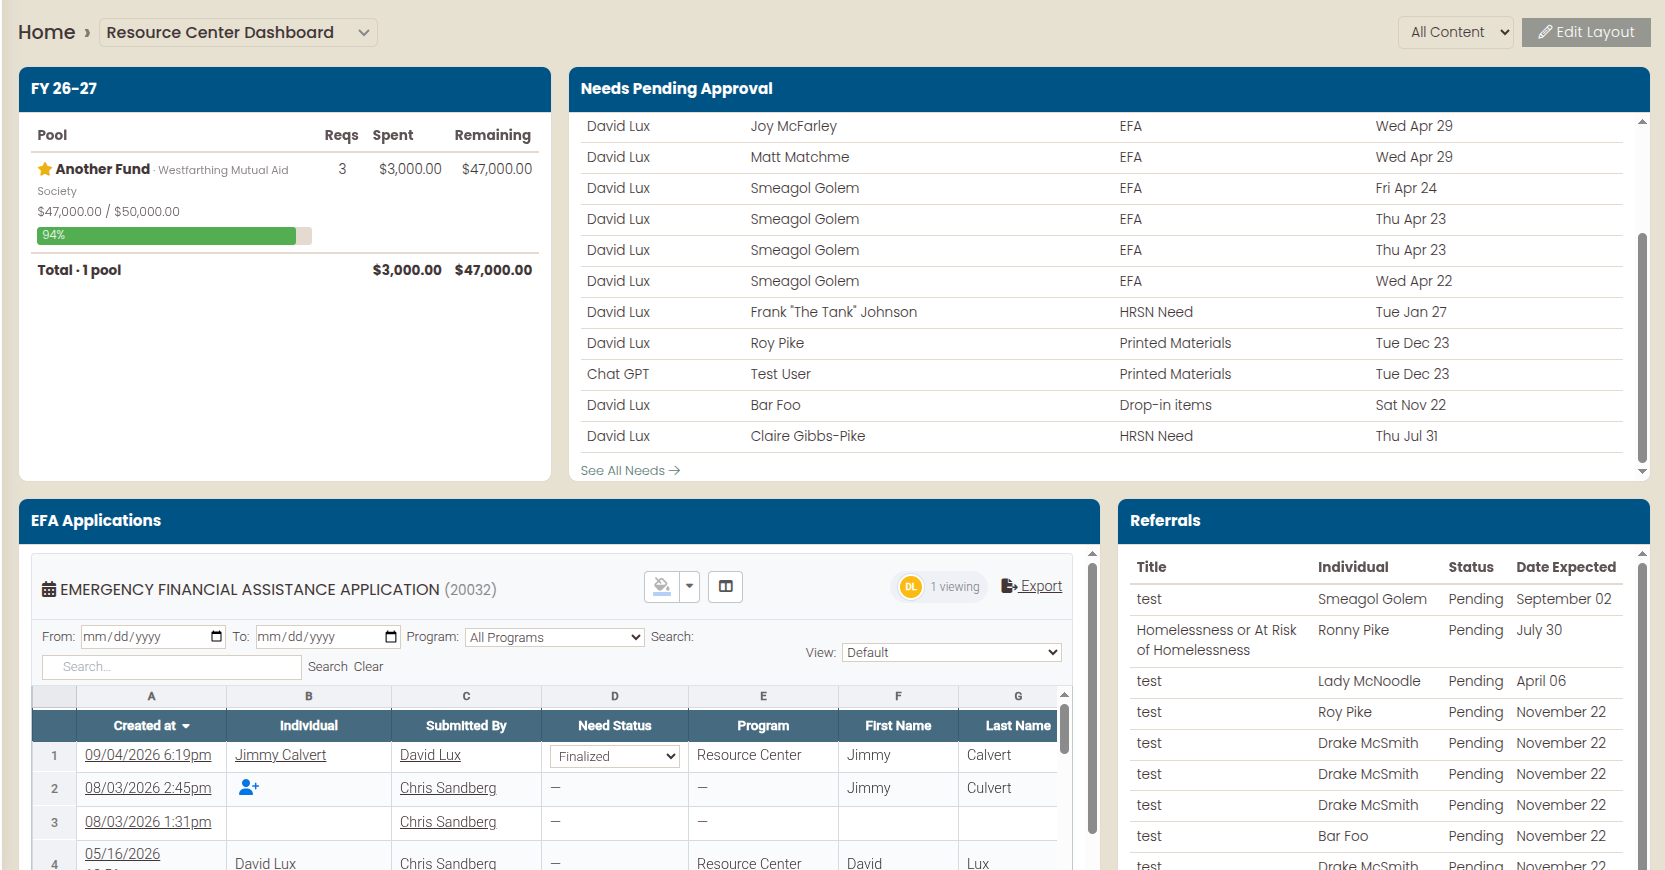
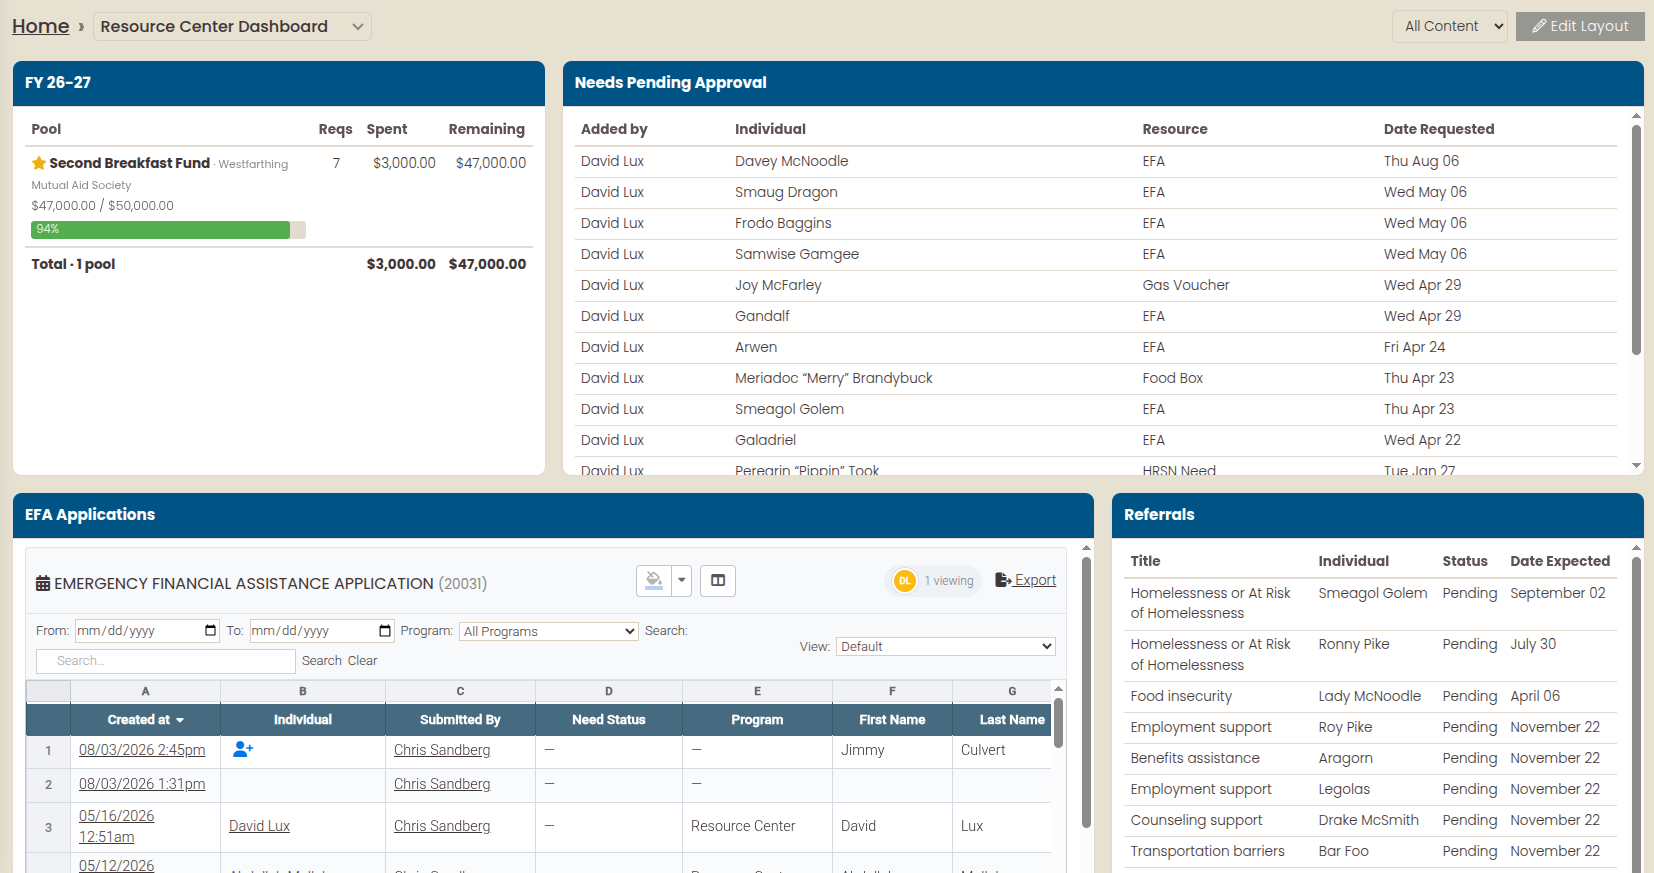
Need Navigator: screenshot lightbox, and the dashboard re-capture
Every framed screenshot is now wrapped in an Enlarge link that opens a
shared native <dialog> (site.js); the link points at the PNG so it still
works without JavaScript. Backdrop click, the close button and Escape
all dismiss it; focus returns to the link; reduced motion drops the
fade. The hero card is excluded.

Home dashboard swapped for Dave's re-capture with varied rows (Second
Breakfast Fund, a fuller approval queue, six referral types).

Changed region(s): [[0.0, 0.0, 1.0, 1.0], [0.5859, 0.9931, 0.6167, 1.0]]

diff --git a/public/sites/neednavigator/css/site.css b/public/sites/neednavigator/css/site.css
@@ -518,6 +518,37 @@ img, svg { max-width: 100%; height: auto; }
   letter-spacing: 0.02em;
 }
 .uiframe-body { padding: clamp(0.9rem, 2vw, 1.4rem); overflow-x: auto; }
+/* ---- Screenshot enlarge link + lightbox ------------------------------------ */
+.shot-zoom { display: block; position: relative; text-decoration: none; }
+.shot-zoom::after {
+  content: 'Enlarge';
+  position: absolute; right: 0.65rem; bottom: 0.65rem;
+  font-family: var(--font-body); font-size: 0.68rem; font-weight: 700; letter-spacing: 0.08em; text-transform: uppercase;
+  padding: 0.38rem 0.6rem; border-radius: 999px;
+  background: rgba(20, 56, 42, 0.86); color: #fff;
+  pointer-events: none; opacity: 0.85; transition: opacity 140ms ease;
+}
+.shot-zoom:hover::after, .shot-zoom:focus-visible::after { opacity: 1; }
+.shot-zoom:focus-visible { outline: var(--focus-ring); outline-offset: -2px; }
+@media (prefers-reduced-motion: reduce) { .shot-zoom::after { transition: none; } }
+
+.lightbox { border: 0; padding: 0; background: transparent; max-width: none; max-height: none; width: auto; overflow: visible; }
+.lightbox::backdrop { background: rgba(14, 40, 30, 0.86); }
+.lightbox img { display: block; max-width: min(96vw, 1800px); max-height: 84vh; width: auto; height: auto; border-radius: 8px; background: #fff; box-shadow: 0 30px 60px -24px rgba(0, 0, 0, 0.6); }
+.lightbox-caption { margin: 0.7rem auto 0; max-width: 70ch; text-align: center; font-size: var(--step--1); color: var(--paper-on-deep); }
+.lightbox-close {
+  position: absolute; top: -0.4rem; right: -0.4rem; transform: translate(50%, -50%);
+  width: 2.4rem; height: 2.4rem; border-radius: 50%; border: 0; cursor: pointer;
+  font: 400 1.5rem/1 var(--font-body); background: #fff; color: var(--evergreen-800);
+  box-shadow: 0 2px 8px rgba(0, 0, 0, 0.35);
+}
+.lightbox-close:focus-visible { outline: var(--focus-ring); outline-offset: 2px; }
+@media (max-width: 600px) { .lightbox-close { top: 0.4rem; right: 0.4rem; transform: none; } }
+@media (prefers-reduced-motion: no-preference) {
+  .lightbox[open] { animation: lightbox-in 160ms ease-out; }
+  @keyframes lightbox-in { from { opacity: 0; transform: scale(0.98); } to { opacity: 1; transform: none; } }
+}
+
 /* Real screenshots sit edge to edge under the frame bar (no .uiframe-body padding). */
 .uiframe-shot { display: block; width: 100%; height: auto; }
 /* Portrait screenshot beside its explanation, e.g. the client dossier card. */

diff --git a/public/sites/neednavigator/js/site.js b/public/sites/neednavigator/js/site.js
@@ -24,6 +24,28 @@
     });
   }
 
+  // Screenshot lightbox: any a[data-lightbox] opens the shared <dialog>;
+  // the link itself points at the PNG, so it still works without JS.
+  var dlg = document.querySelector('[data-lightbox-dialog]');
+  if (dlg && typeof dlg.showModal === 'function') {
+    var dlgImg = dlg.querySelector('[data-lightbox-img]');
+    var dlgCap = dlg.querySelector('[data-lightbox-caption]');
+    document.addEventListener('click', function (e) {
+      var a = e.target.closest && e.target.closest('a[data-lightbox]');
+      if (!a) return;
+      e.preventDefault();
+      var img = a.querySelector('img');
+      dlgImg.src = (img && img.currentSrc) || a.href;
+      dlgImg.alt = img ? img.alt : '';
+      dlgCap.textContent = img ? img.alt : '';
+      dlg.showModal();
+    });
+    dlg.addEventListener('click', function (e) {
+      if (e.target === dlg || e.target.closest('[data-lightbox-close]')) dlg.close();
+    });
+    dlg.addEventListener('close', function () { dlgImg.removeAttribute('src'); });
+  }
+
   // Gentle scroll-in reveal; disabled for reduced motion, absent without IO
   var reduced = window.matchMedia('(prefers-reduced-motion: reduce)').matches;
   if (!('IntersectionObserver' in window) || reduced) {

diff --git a/resources/sites/neednavigator/pages/home.blade.php b/resources/sites/neednavigator/pages/home.blade.php
@@ -88,9 +88,9 @@
                     <figure style="margin:0">
                 <div class="uiframe">
                     <div class="uiframe-bar"><i></i><i></i><i></i><span>Resource Center dashboard</span></div>
-                    @include('site::partials.screen', ['name' => 'dashboard', 'alt' => 'The configurable program dashboard: a funding pool widget with amount spent and remaining, a list of needs pending approval, an emergency financial assistance submissions grid, and a referrals list', 'width' => 1665, 'height' => 870])
+                    @include('site::partials.screen', ['name' => 'dashboard', 'alt' => 'The configurable program dashboard: a funding pool widget for the Second Breakfast Fund with amount spent and remaining, a list of needs pending approval for emergency financial assistance, a gas voucher and a food box, an emergency financial assistance submissions grid, and a referrals list covering homelessness risk, food insecurity, employment, benefits, counseling and transportation', 'width' => 1654, 'height' => 873])
                 </div>
-                <figcaption class="ui-caption">The configurable program dashboard on a test instance: a funding-pool widget with spend and remaining balance, the needs waiting for approval, the emergency assistance submissions grid, and pending referrals, all on one board the program shares.</figcaption>
+                <figcaption class="ui-caption">The configurable program dashboard on a test instance: a funding-pool widget with spend and remaining balance, the needs waiting for approval, the emergency assistance submissions grid, and pending referrals, all on one board the program shares. Click any screenshot on the site to enlarge it.</figcaption>
             </figure>
                 </div>
             </div>

diff --git a/resources/sites/neednavigator/partials/screen.blade.php b/resources/sites/neednavigator/partials/screen.blade.php
@@ -3,14 +3,19 @@
     public/sites/neednavigator/img/screens/. Sources for re-cropping live
     outside the repo at /home/ubuntu/sitehub-image-sources/neednavigator/.
 
-    @include('site::partials.screen', ['name' => 'dashboard', 'alt' => '…', 'width' => 1665, 'height' => 870])
-    Optional: 'class' (defaults to uiframe-shot), 'eager' => true for above-the-fold images.
+    @include('site::partials.screen', ['name' => 'dashboard', 'alt' => '…', 'width' => 1654, 'height' => 873])
+    Optional: 'class' (defaults to uiframe-shot), 'eager' => true above the fold,
+    'zoom' => false to skip the enlarge link (framed shots get it by default; the hero card does not).
 --}}
 @php
     $base = '/sites/neednavigator/img/screens/'.$name;
     $eager = $eager ?? false;
+    $class = $class ?? 'uiframe-shot';
+    $zoom = $zoom ?? ($class !== 'hero-card');
 @endphp
+@if($zoom)<a class="shot-zoom" href="{{ $base }}.png" data-lightbox aria-label="Enlarge: {{ $alt }}">@endif
 <picture>
     <source srcset="{{ $base }}.webp" type="image/webp">
-    <img src="{{ $base }}.png" alt="{{ $alt }}" width="{{ $width }}" height="{{ $height }}" class="{{ $class ?? 'uiframe-shot' }}" loading="{{ $eager ? 'eager' : 'lazy' }}" decoding="async" @if($eager) fetchpriority="high" @endif>
+    <img src="{{ $base }}.png" alt="{{ $alt }}" width="{{ $width }}" height="{{ $height }}" class="{{ $class }}" loading="{{ $eager ? 'eager' : 'lazy' }}" decoding="async" @if($eager) fetchpriority="high" @endif>
 </picture>
+@if($zoom)</a>@endif

diff --git a/resources/sites/neednavigator/partials/layout.blade.php b/resources/sites/neednavigator/partials/layout.blade.php
@@ -162,6 +162,12 @@
 
     <x-accessibility-toolbar />
     <x-scroll-to-top />
+    {{-- Lightbox for product screenshots: opened by site.js from any a[data-lightbox]; without JS the link opens the PNG. --}}
+    <dialog class="lightbox" data-lightbox-dialog aria-label="Enlarged screenshot">
+        <button type="button" class="lightbox-close" data-lightbox-close aria-label="Close">&times;</button>
+        <img alt="" data-lightbox-img>
+        <p class="lightbox-caption" data-lightbox-caption></p>
+    </dialog>
     <script defer src="/sites/neednavigator/js/site.js"></script>
 </body>
 </html>

diff --git a/resources/sites/neednavigator/docs/image-manifest.md b/resources/sites/neednavigator/docs/image-manifest.md
@@ -9,7 +9,7 @@ Every image slot on the site is listed here. Placeholders are inline SVG / CSS c
 | 3 | `favicon` | Browser tab / bookmarks | `img/favicon.svg` + `favicon-32.png` + `apple-touch-icon.png` — geometric compass-needle mark, evergreen | Brand favicon (ideally derived from the life-ring mark), SVG + 32px PNG + 180px apple-touch |
 | 4 | `og-default` | Open Graph / social shares (every page) | `og/og-default.png` — generated: white logo + tagline on evergreen, DejaVu type | Designed 1200×630 OG card using brand type; consider per-page variants for the four solutions pages later |
 | 5 | `home-hero` | Home, hero right column | ✅ **Filled 2026-09-04** with a real screenshot: `img/screens/hero-jimmy-calvert` (test data; sources outside the repo at `/home/ubuntu/sitehub-image-sources/neednavigator/`). Was: Inline SVG: abstract line illustration — three households connecting into one client record | Warm photograph or commissioned illustration of a caseworker meeting a family across a desk — natural light, unposed, landscape |
-| 6 | `home-dashboard` | Home, dashboard feature band | ✅ **Filled 2026-09-04** with a real screenshot: `img/screens/dashboard` (test data; sources outside the repo at `/home/ubuntu/sitehub-image-sources/neednavigator/`). Was: Stylized HTML/CSS stat tiles + funding-pool meter in a browser frame | Real screenshot of the configurable program dashboard (v2), light theme, landscape — widget board with a query table and funding-pool balance widget |
+| 6 | `home-dashboard` | Home, dashboard feature band | ✅ **Filled 2026-09-04** with a real screenshot: `img/screens/dashboard` (dashboard3 re-capture with diverse rows; test data; sources outside the repo at `/home/ubuntu/sitehub-image-sources/neednavigator/`). Was: Stylized HTML/CSS stat tiles + funding-pool meter in a browser frame | Real screenshot of the configurable program dashboard (v2), light theme, landscape — widget board with a query table and funding-pool balance widget |
 | 7 | `shelters-bed-matrix` | /features/shelters, top band | ✅ **Filled 2026-09-04** with a real screenshot: `img/screens/reservation-floor-plan` (test data; sources outside the repo at `/home/ubuntu/sitehub-image-sources/neednavigator/`). Was: Stylized HTML/CSS recreation of the bed-availability week matrix | Real screenshot of the bed-availability matrix, light theme, landscape — one week of beds with occupant spans and a maintenance bed visible |
 | 8 | `client-records-dossier` | resources/sites/neednavigator/pages/features/client-records.blade.php — 'The one-page dossier' section (section--surface directly below the hero) | ✅ **Filled 2026-09-04** with a real screenshot: `img/screens/client-dossier` (test data; sources outside the repo at `/home/ubuntu/sitehub-image-sources/neednavigator/`). Was: Stylized HTML/CSS recreation of the one-page dossier: alert banner, photo/name header marked as a test record, insurance/income/care-team cards, tab row, history rows, and a radial quick-action menu of the eight real actions | Real screenshot of a client profile (one-page dossier), light theme, landscape — ideally a test record, with an active alert banner visible and the radial quick-action menu open |
 | 9 | `documents-inbox-triage` | /features/documents — first section after the hero (section--surface), inside .uiframe figure | Stylized HTML/CSS recreation of the Document Inbox triage screen: queue of incoming scans (Scanner/SFTP source tags) on the left, document preview plus Client/Type/Folder/Attach-to filing fields and File/Skip buttons on the right | Real screenshot of the Document Inbox triage screen, light theme, landscape — the queue of incoming scans on the left, one file previewed on the right with its client, document type, and folder fields filled in |
